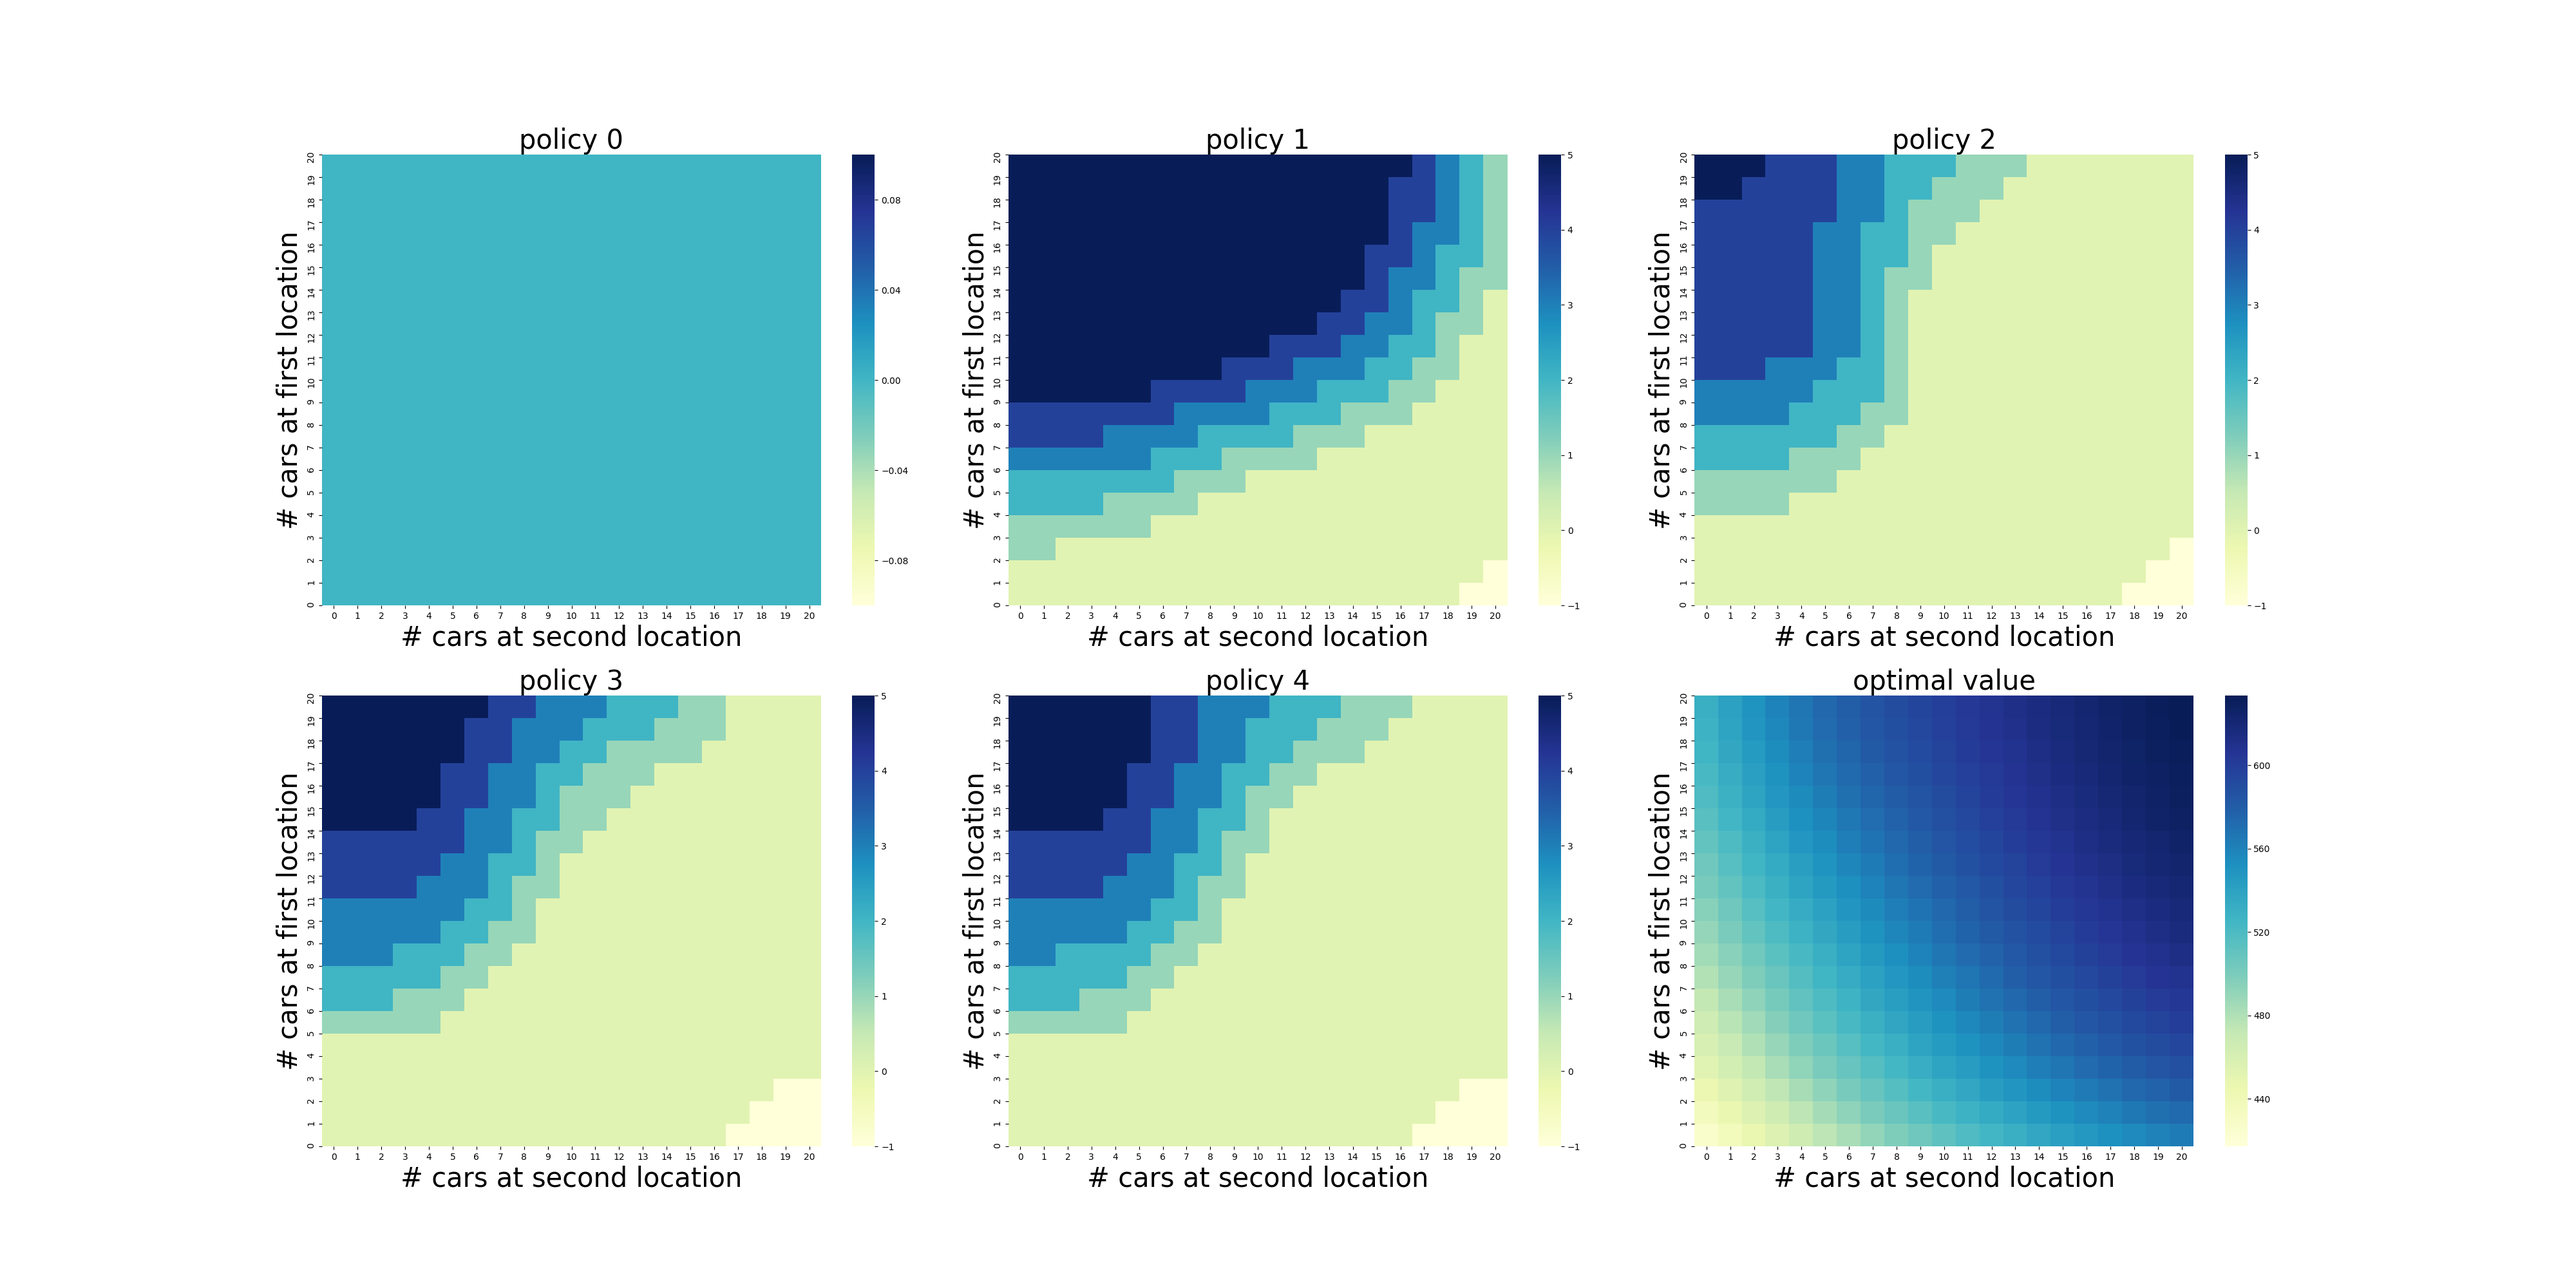
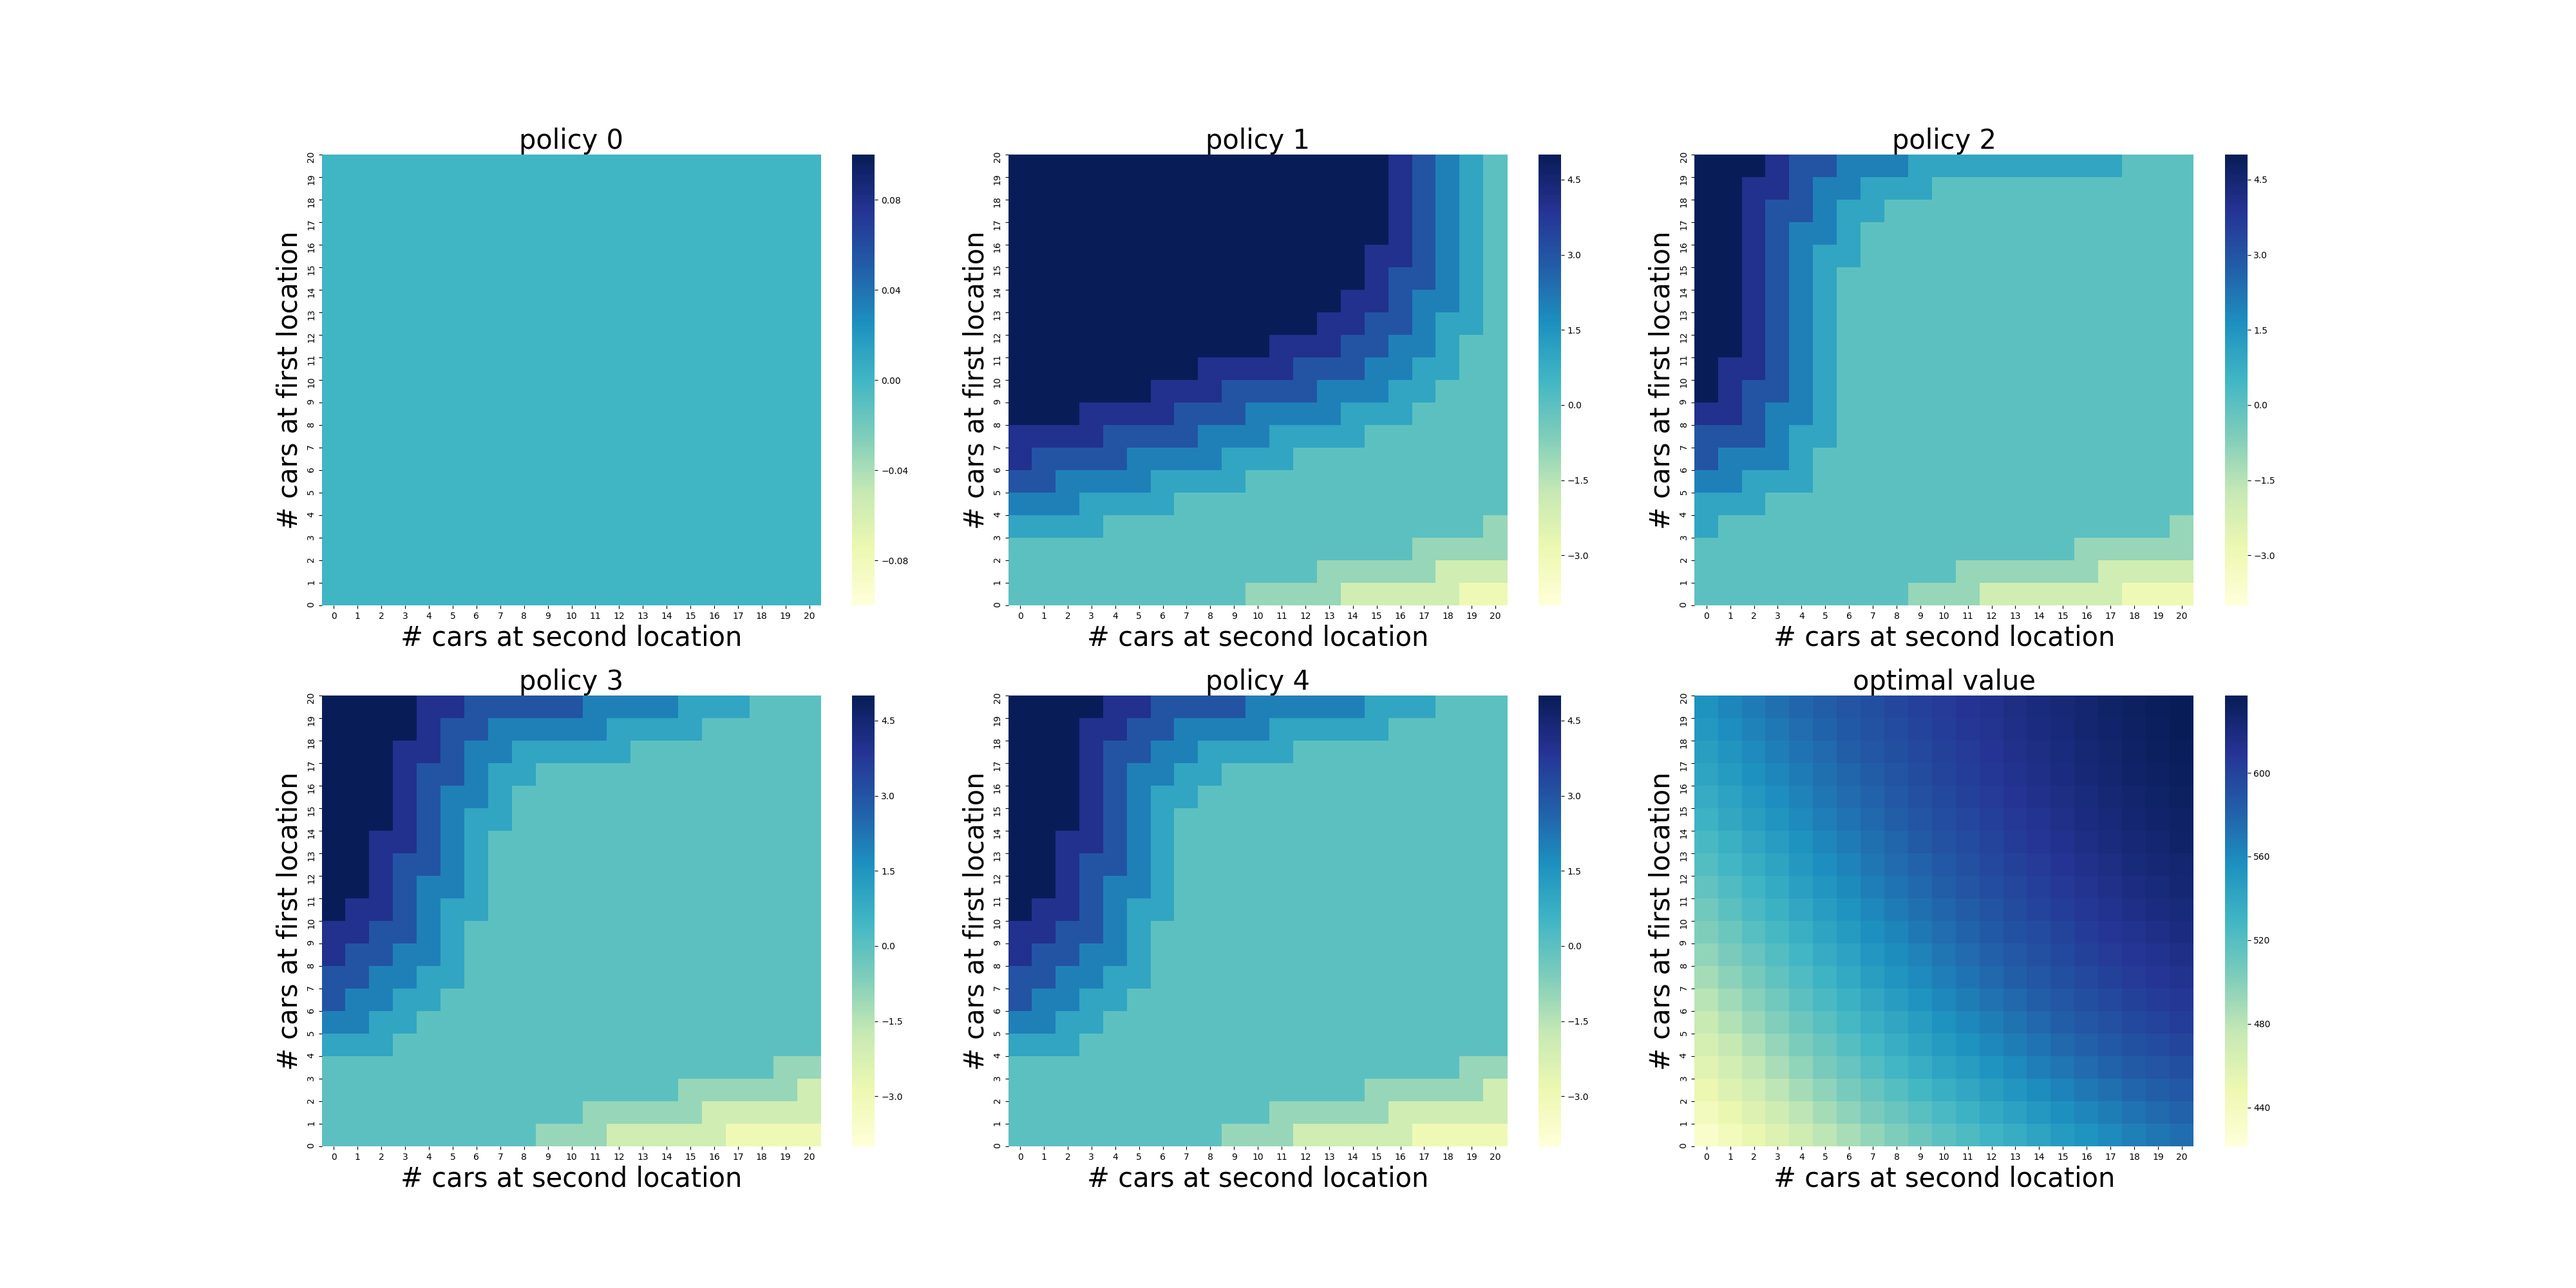
fig_4_2_not_yet

diff --git a/chapter04/my_car_rental.py b/chapter04/my_car_rental.py
@@ -114,47 +114,41 @@ def Expected_Return_with_Mem(state, action, state_value):
     '''
     Policy Iteration is used. (Memory based) (less computing required)
     reward = Income - car movement fee
-    States are the #cars of two locates at the beginning of each day
+    States are the #cars of two locates at the end (not begining!!!) of each day 
     action: #cars move between them. L1 -> L2: +; [-5, 5]
     return:
         updated V(state)
     '''
 
-    cars_L1 = state[0]
+    assert -5 <= action <= 5
+    # move cars first, then one day starts
+    # new states after processing and action
+    # L1 -> L2: +
+
+    cars_L1 = min(state[0] - action, L1_CAR_MAX)
     if cars_L1 in L1_Dynamics:
         L1_temp_states = L1_Dynamics[cars_L1]
     else:
         L1_temp_states = compute_dynamics(cars_L1, L1_OUT_LAMB, L1_IN_LAMB, L1_CAR_MAX)
         L1_Dynamics[cars_L1] = L1_temp_states
 
-    cars_L2 = state[1]
+    cars_L2 = min(state[1] + action, L2_CAR_MAX)
     if cars_L2 in L2_Dynamics:
         L2_temp_states = L2_Dynamics[cars_L2]
     else:
         L2_temp_states = compute_dynamics(cars_L2, L2_OUT_LAMB, L2_IN_LAMB, L2_CAR_MAX)
         L2_Dynamics[cars_L2] = L2_temp_states
-
-    assert -5 <= action <= 5
+    
+    assert L1_CAR_MAX >= cars_L1 >= 0 or L2_CAR_MAX >= cars_L2 >= 0
 
     value = 0.0
 
     for L1_out, L1_out_prob, L1_return_prob, remain_cars_L1 in L1_temp_states:
         for L2_out, L2_out_prob, L2_return_prob, remain_cars_L2 in L2_temp_states:
             Income = (L1_out + L2_out) * 10.0
-            # new states after processing and action
-            # L1 -> L2: +
-            if action >= remain_cars_L1:
-                reward = Income - CAR_MOVE_FEE * remain_cars_L1
-                new_cars_L1 = 0
-                new_cars_L2 = min(remain_cars_L2 + remain_cars_L1, 20)
-            elif action < 0 and abs(action) >= remain_cars_L2:
-                reward = Income - CAR_MOVE_FEE * remain_cars_L2
-                new_cars_L1 = min(remain_cars_L1 + remain_cars_L2, 20)
-                new_cars_L2 = 0
-            else:
-                reward = Income - CAR_MOVE_FEE * abs(action)
-                new_cars_L1 = min(remain_cars_L1 - action, 20)
-                new_cars_L2 = min(remain_cars_L2 + action, 20)
+            reward = Income - CAR_MOVE_FEE * abs(action)
+            new_cars_L1 = remain_cars_L1
+            new_cars_L2 = remain_cars_L2
             
             assert 0 <= new_cars_L1 <= 20 and  0 <= new_cars_L2 <= 20
 
@@ -167,16 +161,17 @@ def Expected_Return(state, action, state_value):
     '''
     Policy Iteration is used.
     reward = Income - car movement fee
-    States are the #cars of two locates at the beginning of each day
+    States are the #cars of two locates at the end (not begining!!!) of each day
     action: #cars move between them. L1 -> L2: +; [-5, 5]
     return:
         updated V(state)
     '''
 
-    cars_L1 = state[0]
-    cars_L2 = state[1]
-
     assert -5 <= action <= 5
+
+    cars_L1 = min(state[0] - action, L1_CAR_MAX)
+    cars_L2 = min(state[1] + action, L2_CAR_MAX)
+    assert L1_CAR_MAX >= cars_L1 >= 0 or L2_CAR_MAX >= cars_L2 >= 0
 
     value = 0.0
 
@@ -196,20 +191,9 @@ def Expected_Return(state, action, state_value):
                     L2_return_prob, remain_cars_L2 = return_car(L2_returns, rent_remain_cars_L2, L2_IN_LAMB, L2_CAR_MAX)
 
                     Income = (L1_out + L2_out) * 10.0
-                    # new states after processing and action
-                    # L1 -> L2: +
-                    if action >= remain_cars_L1:
-                        reward = Income - CAR_MOVE_FEE * remain_cars_L1
-                        new_cars_L1 = 0
-                        new_cars_L2 = min(remain_cars_L2 + remain_cars_L1, 20)
-                    elif action < 0 and abs(action) >= remain_cars_L2:
-                        reward = Income - CAR_MOVE_FEE * remain_cars_L2
-                        new_cars_L1 = min(remain_cars_L1 + remain_cars_L2, 20)
-                        new_cars_L2 = 0
-                    else:
-                        reward = Income - CAR_MOVE_FEE * abs(action)
-                        new_cars_L1 = min(remain_cars_L1 - action, 20)
-                        new_cars_L2 = min(remain_cars_L2 + action, 20)
+                    reward = Income - CAR_MOVE_FEE * abs(action)
+                    new_cars_L1 = remain_cars_L1
+                    new_cars_L2 = remain_cars_L2
                     
                     assert 0 <= new_cars_L1 <= 20 and  0 <= new_cars_L2 <= 20
 
@@ -218,6 +202,73 @@ def Expected_Return(state, action, state_value):
     return value
 
 # Value iterations as well?
+
+def figure_4_2_val_iter():
+    # value iteration for final policy and values in one sweep
+    # determinstic policies
+    value = np.zeros((L1_CAR_MAX+1, L2_CAR_MAX+1))
+    policy = np.zeros(value.shape, dtype=np.int)
+
+    iterations = 0
+    _, axes = plt.subplots(2, 1, figsize=(40, 20)) # a fig of policy and a fig of optimal values
+    plt.subplots_adjust(wspace=0.1, hspace=0.2)
+    axes = axes.flatten()
+
+    while True:
+        # value iteration, similar to policy improvement
+        max_diff = 0
+        for L1_cars in range(L1_CAR_MAX+1):
+            for L2_cars in range(L2_CAR_MAX+1):
+                old_value = value[L1_cars, L2_cars]
+                action_values = []
+                for action in ACTION_LIST:
+                    if 0 <= action <= L1_cars or (-1*L2_cars) <= action <= 0: 
+                        # action_values.append(Expected_Return([L1_cars, L2_cars], action, value))
+                        action_values.append(Expected_Return_with_Mem([L1_cars, L2_cars], action, value))
+                    else:
+                        # not available actions
+                        action_values.append(-np.inf)
+                new_value = np.max(action_values)
+                diff = abs(old_value - new_value)
+                value[L1_cars, L2_cars] = new_value
+                if max_diff < diff:
+                    max_diff = diff
+        iterations += 1
+        print('Iter {}: max diff: {:.6f}'.format(iterations, max_diff))
+        if max_diff < 1e-4:
+            break
+    
+    # draw optimal values
+    fig = sns.heatmap(np.flipud(value), cmap="YlGnBu", ax=axes[-1])
+    fig.set_ylabel('# cars at first location', fontsize=30)
+    fig.set_yticks(list(reversed(range(MAX_CARS + 1))))
+    fig.set_xlabel('# cars at second location', fontsize=30)
+    fig.set_title('optimal value', fontsize=30)
+
+    # final optimal policy
+    for L1_cars in range(L1_CAR_MAX+1):
+        for L2_cars in range(L2_CAR_MAX+1):
+            action_values = []
+            for action in ACTION_LIST:
+                if 0 <= action <= L1_cars or (-1*L2_cars) <= action <= 0: 
+                    # action_values.append(Expected_Return([L1_cars, L2_cars], action, value))
+                    action_values.append(Expected_Return_with_Mem([L1_cars, L2_cars], action, value))
+                else:
+                    # not available actions
+                    action_values.append(-np.inf)
+            new_action = ACTION_LIST[np.argmax(action_values)]
+            policy[L1_cars, L2_cars] = new_action
+
+    # draw optimal policy
+    fig = sns.heatmap(np.flipud(policy), cmap="YlGnBu", ax=axes[0])
+    fig.set_ylabel('# cars at first location', fontsize=30)
+    fig.set_yticks(list(reversed(range(MAX_CARS + 1))))
+    fig.set_xlabel('# cars at second location', fontsize=30)
+    fig.set_title('optimal policy'.format(0), fontsize=30)
+
+    plt.savefig('./images/mine/figure_4_2_val_iter.png')
+    plt.close()
+
 
 def figure_4_2():
     # determinstic policies
@@ -250,6 +301,7 @@ def figure_4_2():
             eval_iter += 1
             print('{} max value change {}'.format(eval_iter, max_value_change))
             if max_value_change < 1e-4:
+            # if max_value_change < 1e-2:
                 break
 
         # policy improvement
@@ -259,8 +311,12 @@ def figure_4_2():
                 old_action = policy[L1_cars, L2_cars]
                 action_values = []
                 for action in ACTION_LIST:
-                    # action_values.append(Expected_Return([L1_cars, L2_cars], action, value))
-                    action_values.append(Expected_Return_with_Mem([L1_cars, L2_cars], action, value))
+                    if 0 <= action <= L1_cars or (-1*L2_cars) <= action <= 0: 
+                        # action_values.append(Expected_Return([L1_cars, L2_cars], action, value))
+                        action_values.append(Expected_Return_with_Mem([L1_cars, L2_cars], action, value))
+                    else:
+                        # not available actions
+                        action_values.append(-np.inf)
                 new_action = ACTION_LIST[np.argmax(action_values)]
                 policy[L1_cars, L2_cars] = new_action
                 if policy_stable and old_action != new_action:
@@ -284,5 +340,4 @@ def figure_4_2():
 
 if __name__ == '__main__':
     figure_4_2()
-
-pdb.set_trace()
+    figure_4_2_val_iter()
